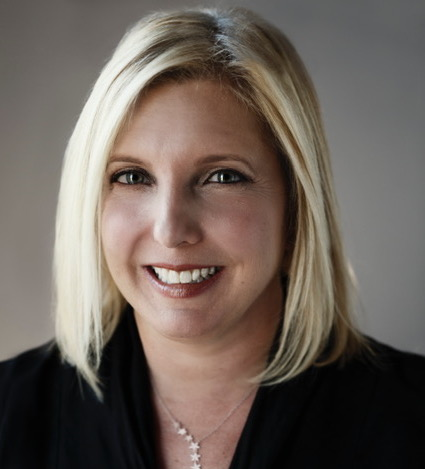
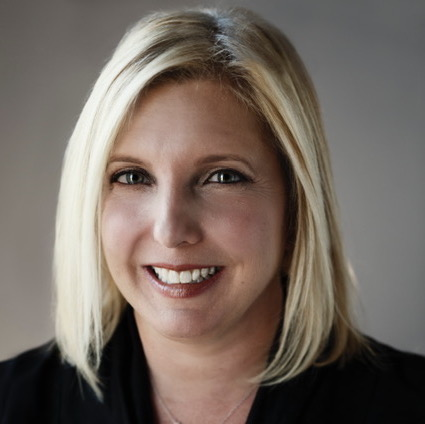
minor changes

diff --git a/about.html b/about.html
@@ -599,7 +599,7 @@
 					<img
 						alt
 						width="300px"
-						src="images/team/doug.jpg"/>
+						src="images/team/dawn.jpg"/>
 				</span>
 			</div>
 		</div>
